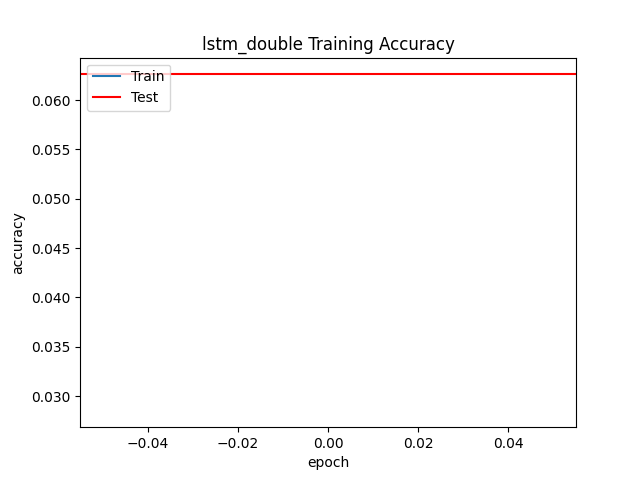
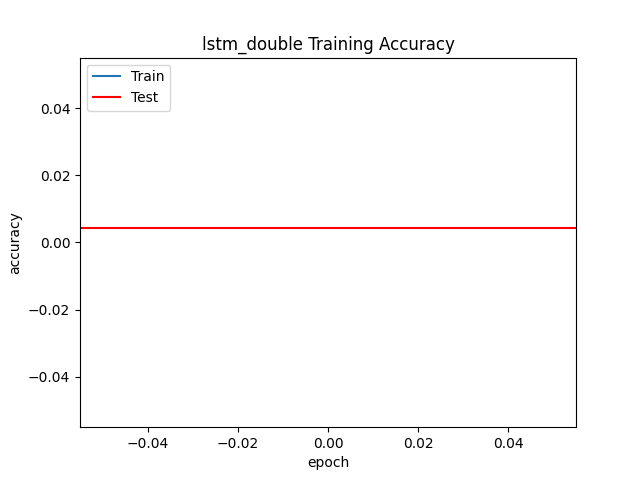
push lstm graphs

diff --git a/models/lstm.py b/models/lstm.py
@@ -15,7 +15,6 @@ class LSTM_model(nn.Module):
         self.fc = nn.Linear(hidden_size, output_classes)
     
     def forward(self, x):
-        print(type(x))
         batch_size, sequence_length, num_landmarks, _ = x.shape
         x = x.view(batch_size, sequence_length, -1)
         
@@ -23,7 +22,6 @@ class LSTM_model(nn.Module):
         c0 = torch.zeros(self.num_layers, batch_size, self.hidden_size).to(x.device)
         
         out, (_, _) = self.lstm1(x, (h0, c0))
-        print(type(out))
         out = self.dropout(out)
         out, (_, _) = self.lstm2(out, (h0, c0))
         out = self.fc(out[:, -1, :])

diff --git a/train_model.py b/train_model.py
@@ -21,15 +21,15 @@ device = torch.device('cuda' if torch.cuda.is_available() else 'cpu')
 NUM_FRAMES = 60
 NUM_LANDMARKS = 21
 
-EPOCHS=0
+EPOCHS=20
 BATCH_SIZE=32
 MODEL_NAME = "LSTM"
-EXPERIMENT_NAME='lstm_double'
+EXPERIMENT_NAME='lstm_new'
 LEARNING_RATE=0.001
 LSTM_HIDDEN_SIZE = 256
 LSTM_NUM_LAYERS = 2
 LSTM_WEIGHT_DECAY = 0.001
-LSTM_DROPOUT_PROB = 0.7
+LSTM_DROPOUT_PROB = 0.5
 
 
 logger = logging.getLogger(__name__)
